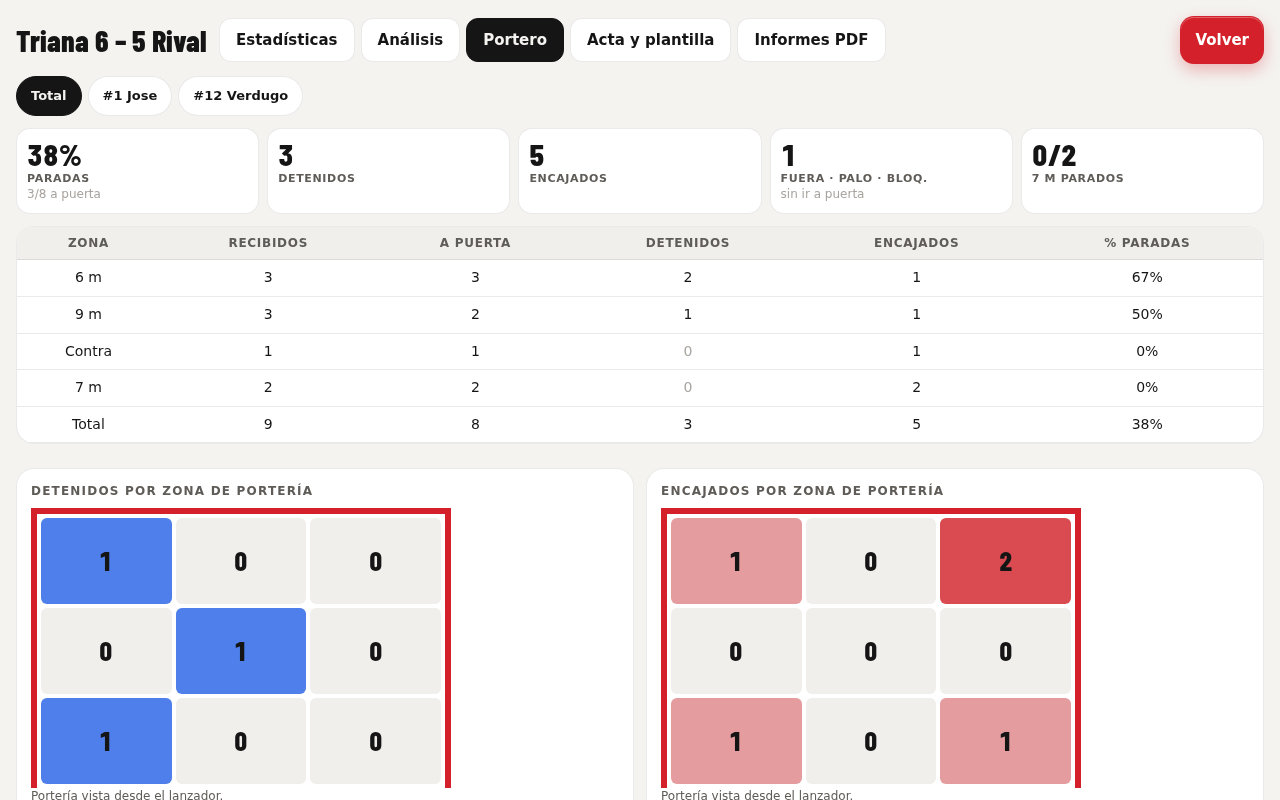
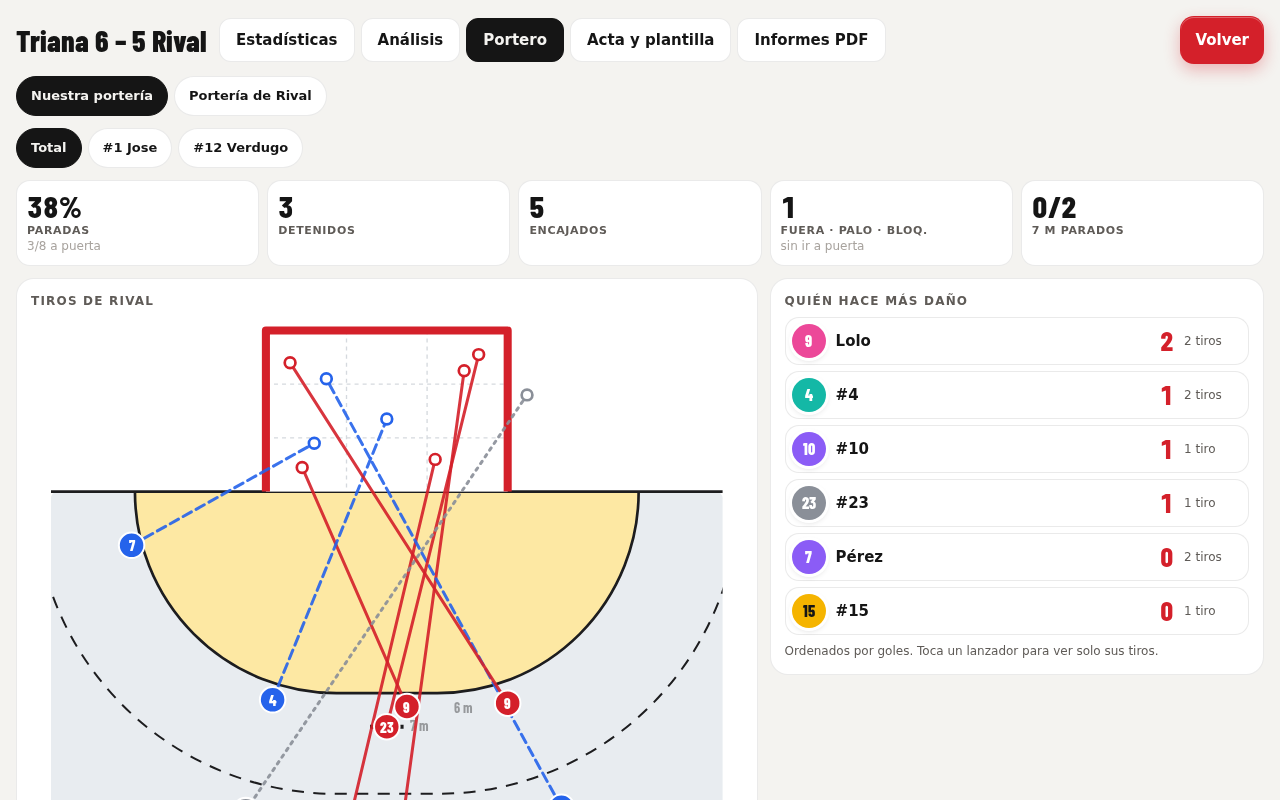
docs(readme): describe the shooter damage maps

diff --git a/README.md b/README.md
@@ -88,15 +88,16 @@ they score. Plain-language key points to work on, for defence and attack.
 </td>
 <td width="50%" valign="top">
 
-### Goalkeeper report
-Saves and goals by zone and by goal sector for each keeper or both, 7 m saved, and shots that
-never reached the goal.
+### Who hurt each goal most
+Our goal or the rival's: every trajectory with the shooter's dorsal, the shooters ranked by goals
+(tap one to see only their shots), saves and goals by zone and goal sector. The PDF report has the
+same maps and rankings.
 
 </td>
 </tr>
 <tr>
 <td><img src=".github/readme/analysis.png" alt="Analysis tab with key points, top shooter and scorer, lanes table and goal sectors"></td>
-<td><img src=".github/readme/goalkeeper.png" alt="Goalkeeper tab with save percentage, zone table and save and goal maps of the goal"></td>
+<td><img src=".github/readme/goalkeeper.png" alt="Goalkeeper tab with the shot map showing each shooter's dorsal and the shooters ranked by goals"></td>
 </tr>
 <tr>
 <td width="50%" valign="top">
